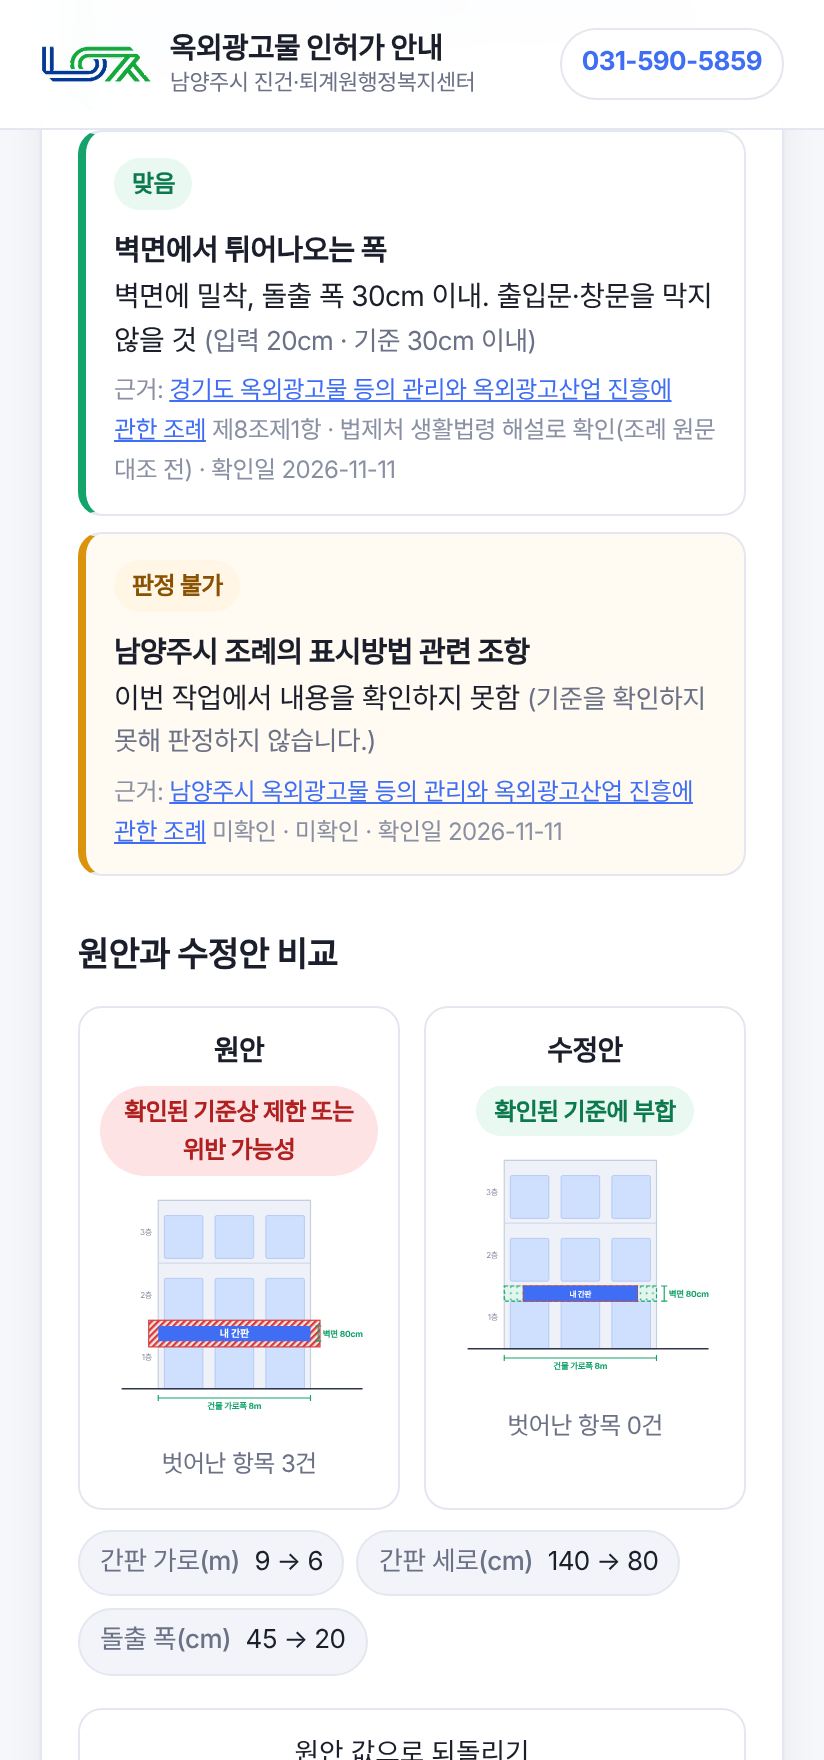
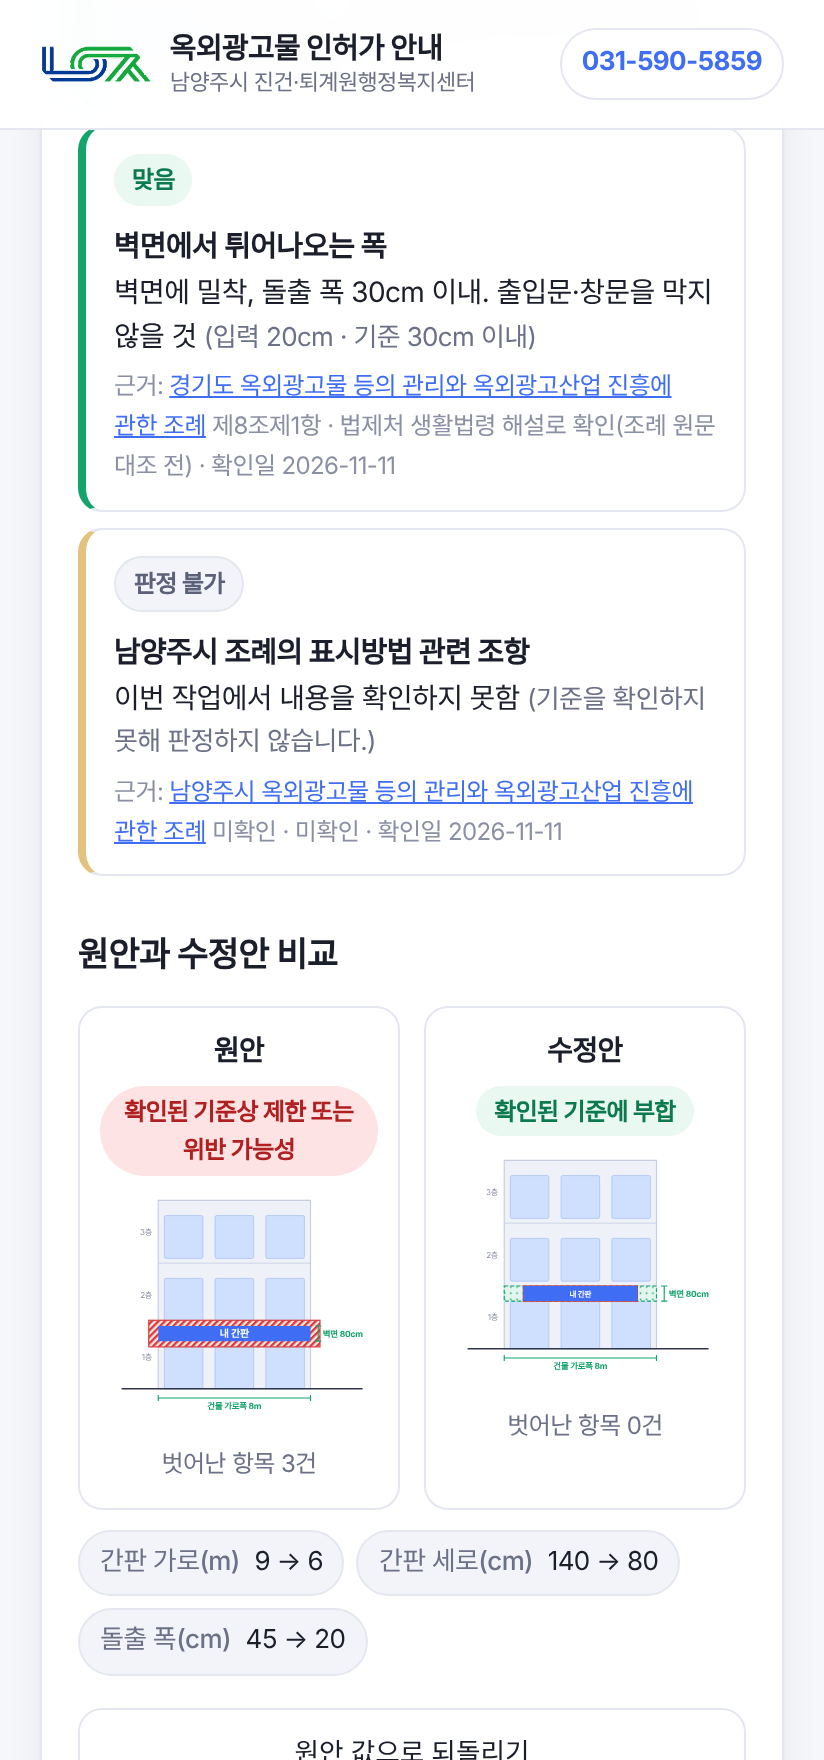
주의 안내 표시를 차분하게 정리: 주황색 상자를 회색 각주로, 결과 아래 안내를 한 묶음으로
- 주의 안내(.note.warn)를 옅은 회색 상자 + 가는 왼쪽 선으로 변경(전 화면 공통)
- 그림 안내의 안내 문구 3개를 결과 아래 작은 각주 한 묶음으로 통합
- '확인 필요·판정 불가' 결과와 항목의 주황 배경 제거
- 종류별 표시 기준의 '확인이 필요합니다' 문구를 그림 안내 연결로 교체

Claude-Session: https://claude.ai/code/session_01K2D1BivpX3L3RnvX4NEffJ

Changed region(s): [[0.091, 0.0938, 0.8799, 0.5]]

diff --git a/index.html b/index.html
@@ -84,10 +84,11 @@ main{flex:1;padding:36px 0 60px}
 .btn{border:1px solid var(--line);background:#fff;color:var(--text);padding:11px 20px;border-radius:12px;font-weight:500}
 .btn.primary{background:var(--grad);border:0;color:#fff;font-weight:700}
 .btn:disabled{opacity:.4;cursor:default}
-.check{display:inline-block;font-size:12px;font-weight:700;color:var(--warn);background:var(--warn-soft);border:1px solid #f5d9a8;padding:1px 8px;border-radius:999px;vertical-align:middle}
+.check{display:inline-block;font-size:12px;font-weight:500;color:var(--muted);background:var(--soft);border:1px solid var(--line);padding:1px 8px;border-radius:999px;vertical-align:middle}
 .law{font-size:12.5px;color:#8a90a3;margin-top:8px}
 .note{padding:14px 18px;border-radius:12px;background:var(--blue-soft);border:1px solid #d6e0fd;font-size:14px;color:#2c4aa8;margin-top:16px}
-.note.warn{background:var(--warn-soft);border-color:#f5d9a8;color:#8a5200}
+.note.warn{background:#fafbfd;border:1px solid var(--line);border-left:3px solid #e3c27e;color:var(--muted);font-size:13.5px;line-height:1.6}
+.note.warn b{color:var(--text)}
 .tbl{width:100%;border-collapse:collapse;font-size:14px;margin-top:6px}
 .tbl th,.tbl td{border:1px solid var(--line);padding:11px 12px;text-align:left;vertical-align:top}
 .tbl th{background:var(--soft);font-weight:700;white-space:nowrap}
@@ -116,7 +117,7 @@ main{flex:1;padding:36px 0 60px}
 .result.p{background:var(--purple-soft);border-color:#d9cffb}.result.p .big{color:var(--purple)}
 .result.s{background:var(--blue-soft);border-color:#d6e0fd}.result.s .big{color:var(--blue)}
 .result.x{background:var(--ok-soft);border-color:#bfe9d6}.result.x .big{color:var(--ok)}
-.result.c{background:var(--warn-soft);border-color:#f5d9a8}.result.c .big{color:var(--warn)}
+.result.c{background:var(--soft);border-color:var(--line)}.result.c .big{color:var(--text)}
 .result ul{text-align:left;margin:14px auto 0;max-width:560px;color:var(--muted);font-size:14px;padding-left:18px}
 
 /* 6. 기준·서류·절차·FAQ */
@@ -329,7 +330,7 @@ p,li,.a,summary{text-wrap:pretty}
 .vg-pics figure.side{flex:0 0 30%}
 .vg-pics svg{width:100%;height:auto;display:block}
 .vg-pics figcaption{font-size:12px;color:var(--muted);margin-top:4px}
-.vg-empty{padding:40px 16px;text-align:center;color:var(--warn);font-size:14px}
+.vg-empty{padding:40px 16px;text-align:center;color:var(--muted);font-size:14px}
 .vg-legend{list-style:none;display:flex;flex-wrap:wrap;gap:6px 14px;font-size:12px;color:var(--muted);margin-top:10px;padding-top:10px;border-top:1px dashed var(--line)}
 .vg-legend li{display:flex;align-items:center;gap:6px}
 .lg{width:14px;height:14px;border-radius:3px;display:inline-block;flex-shrink:0}
@@ -339,12 +340,17 @@ p,li,.a,summary{text-wrap:pretty}
 .vg-cond{font-size:14px;color:var(--text);padding:12px 16px;border-radius:12px;background:var(--soft);border:1px solid var(--line);margin-bottom:12px}
 .vg-rows{list-style:none;display:grid;gap:8px}
 .vg-row{display:flex;gap:12px;align-items:flex-start;padding:13px 16px;border:1px solid var(--line);border-radius:12px;background:#fff;border-left-width:4px}
-.vg-row.ok{border-left-color:#14a36b}.vg-row.bad{border-left-color:#d43b3b;background:#fff8f8}.vg-row.need{border-left-color:#d9930d;background:#fffbf2}.vg-row.info{border-left-color:#c7d3fb}
+.vg-row.ok{border-left-color:#14a36b}.vg-row.bad{border-left-color:#d43b3b}.vg-row.need{border-left-color:#e3c27e}.vg-row.info{border-left-color:#c7d3fb}
 .vg-row b{font-size:14.5px}.vg-row p{font-size:14px;line-height:1.55}.vg-row em{font-style:normal;color:var(--muted);font-size:13px}
 .vg-badge{flex-shrink:0;font-size:12px;font-weight:700;padding:3px 9px;border-radius:999px;white-space:nowrap;margin-top:1px}
-.vg-badge.ok{background:var(--ok-soft);color:#0c7a4e}.vg-badge.bad{background:#fde3e3;color:#b02020}.vg-badge.need{background:var(--warn-soft);color:#8a5200}.vg-badge.info{background:var(--blue-soft);color:#2c4aa8}
+.vg-badge.ok{background:var(--ok-soft);color:#0c7a4e}.vg-badge.bad{background:#fde3e3;color:#b02020}.vg-badge.need{background:var(--soft);color:#5b6178;border:1px solid var(--line)}.vg-badge.info{background:var(--blue-soft);color:#2c4aa8}
 .vg-exc{font-size:13px!important;color:var(--muted)}
 .vg-src{display:block;font-size:12px;color:#8a90a3;margin-top:4px}
+.vg-foot{list-style:none;margin-top:14px;padding-top:12px;border-top:1px solid var(--line);display:grid;gap:5px;font-size:12.5px;color:var(--muted);line-height:1.6}
+.vg-foot li{position:relative;padding-left:12px}
+.vg-foot li::before{content:"";position:absolute;left:2px;top:.72em;width:4px;height:4px;border-radius:50%;background:#b9bfd0}
+.vg-foot b{color:var(--text);font-weight:500}
+.vg-sample{font-size:12.5px;color:var(--muted);padding:8px 12px;border:1px dashed var(--line);border-radius:10px;margin-bottom:6px}
 .vg-act{display:flex;gap:8px;flex-wrap:wrap;margin-top:16px}
 .h3 small{font-weight:400;font-size:12px;color:var(--muted);margin-left:6px}
 .vg-search input{font:inherit;font-size:15px;width:100%;padding:11px 14px;border:1px solid var(--line);border-radius:12px;margin-bottom:10px}
@@ -895,7 +901,7 @@ function drawStandards(el){
       · 간판은 허가(신고)를 마친 뒤에 설치해야 합니다.<br>
       · 간판의 표시기간은 원칙적으로 3년 이내이며, 계속 사용하려면 기간 연장을 신청해야 합니다.<br>
       · 4층 이상 또는 한 변 10m 이상 벽면 간판, 높이 5m 이상·면적 1㎡ 이상 돌출간판, 옥상간판, 높이 4m 이상 지주 간판 등은 안전점검 대상입니다.</div>
-    <div class="note warn">간판 크기·높이·돌출 폭·업소별 수량 등 세부 표시방법은 「경기도 옥외광고물 조례」 및 「남양주시 조례」에서 정합니다. 세부 수치는 ${chk}</div>
+    <div class="note">간판 크기·위치·돌출 폭 같은 표시방법은 <a href="#visual"><b>그림으로 보는 설치기준</b></a>에서 내 건물 조건을 넣어 확인할 수 있습니다.</div>
     ${bizBox("표시방법에 맞는 간판 제작은 등록된 옥외광고사업자와 상의하십시오.")}`;
   el.querySelectorAll("[data-i]").forEach(b=>b.onclick=()=>{stdTab=+b.dataset.i;drawStandards(el);});
 }

diff --git a/js/visual.js b/js/visual.js
@@ -35,7 +35,7 @@ const PRESETS = {
 const VERDICT = {
   ok:  {c:"x", t:"확인된 기준에 부합", m:"입력한 값은 확인된 기준 범위 안에 있습니다."},
   bad: {c:"p", t:"확인된 기준상 제한 또는 위반 가능성", m:"아래 빨간 항목이 확인된 기준 범위를 벗어납니다."},
-  need:{c:"c", t:"추가 조건 확인 필요", m:"아래 노란 항목은 담당 부서 확인이 있어야 판단할 수 있습니다."},
+  need:{c:"c", t:"추가 조건 확인 필요", m:"아래 '확인 필요' 항목은 담당 부서 확인이 있어야 판단할 수 있습니다."},
   none:{c:"c", t:"근거 미확인으로 판정 불가", m:"이 구역의 기준은 아직 확인하지 못해 판정하지 않습니다."}
 };
 
@@ -262,7 +262,7 @@ function render(el){
         ${diffs.length?`<ul class="vg-diff">${diffs.join("")}</ul>`:`<p class="vg-help">아직 원안과 같은 값입니다. 크기나 구역을 바꿔 보십시오.</p>`}
         <div class="vg-act"><button class="btn" id="vgBack">원안 값으로 되돌리기</button><button class="btn" id="vgDrop">비교 끝내기</button></div></div>`;
   el.innerHTML = head + `
-    ${M.sample?`<div class="note warn" id="vgSample"><b>가상 지역 예시 화면입니다.</b> 규칙 파일을 바꿔 끼우는 구조를 보여 주기 위한 것으로, 여기 나오는 구역과 수치는 실제 기준이 아닙니다.</div>`:""}
+    ${M.sample?`<div class="vg-sample" id="vgSample"><b>가상 지역 예시 화면입니다.</b> 규칙 파일을 바꿔 끼우는 구조를 보여 주기 위한 것으로, 여기 나오는 구역과 수치는 실제 기준이 아닙니다.</div>`:""}
     <div class="vg-step"><span>1</span><b>어떤 간판인가요?</b></div>
     <div class="opts vg-types">
       <button class="opt ${V.type==="wall"?"sel":""}" data-type="wall"><b>벽면 이용 간판(가로형)</b><span>가게 위 벽면에 가로로 길게 붙이는 간판</span></button>
@@ -289,9 +289,11 @@ function render(el){
         : `${V.floors}층 건물 ${V.pFloor}층 · 아랫부분 ${fmt(V.bottom)}m · 돌출 ${fmt(V.out)}cm · 세로 ${fmt(V.len)}m · 두께 ${fmt(V.thick)}cm`}</p>
       <ul class="vg-rows">${ev.rows.map(rowHtml).join("")}</ul>
       ${cmp}
-      ${(M.uncertain_regions||[]).includes(V.region)&&!M.sample?`<div class="note warn">구역을 모르는 상태에서는 경기도 조례 일반 기준만 비교했습니다. 특정구역 안이면 더 엄격한 기준(입체형 설치, 글자 크기 등)이 적용됩니다.</div>`:""}
-      ${(M.no_verdict_regions||[]).includes(V.region)?`<div class="note warn">정비시범구역은 별도 고시의 표시방법을 따릅니다. 이 페이지에서는 아직 그 내용을 확인하지 못했으니 담당 부서(${CONTACT.tel})에 문의해 주십시오.</div>`:""}
-      <div class="note warn">이 화면은 이해를 돕기 위한 안내이며 <b>허가증이나 적합 확인서가 아닙니다.</b> 실제 허가·신고 여부와 표시방법 적합 여부는 담당 부서가 현장 여건과 심의 대상 여부를 검토해 결정합니다.</div>
+      <ul class="vg-foot">
+        ${(M.uncertain_regions||[]).includes(V.region)&&!M.sample?`<li>구역을 모르는 상태라 경기도 조례 일반 기준만 비교했습니다. 특정구역 안이면 입체형 설치, 글자 크기 등 기준이 더해집니다.</li>`:""}
+        ${(M.no_verdict_regions||[]).includes(V.region)?`<li>정비시범구역은 별도 고시의 표시방법을 따르며, 그 내용은 아직 확인하지 못했습니다. 담당 부서(${CONTACT.tel})에 문의해 주십시오.</li>`:""}
+        <li>이 화면은 이해를 돕기 위한 안내이며 <b>허가증이나 적합 확인서가 아닙니다.</b> 허가·신고 여부와 표시방법 적합 여부는 담당 부서가 현장 여건과 심의 대상 여부를 검토해 결정합니다.</li>
+      </ul>
       <div class="vg-act"><button class="btn" id="vgPrint">${typeof ic==="function"?ic("file-down"):""} 인쇄·PDF로 저장</button>
         <button class="btn primary" onclick="go('diagnose')">→ 허가·신고 대상 자가진단</button>
         <button class="btn" onclick="go('contact')">담당 부서 문의</button></div>
